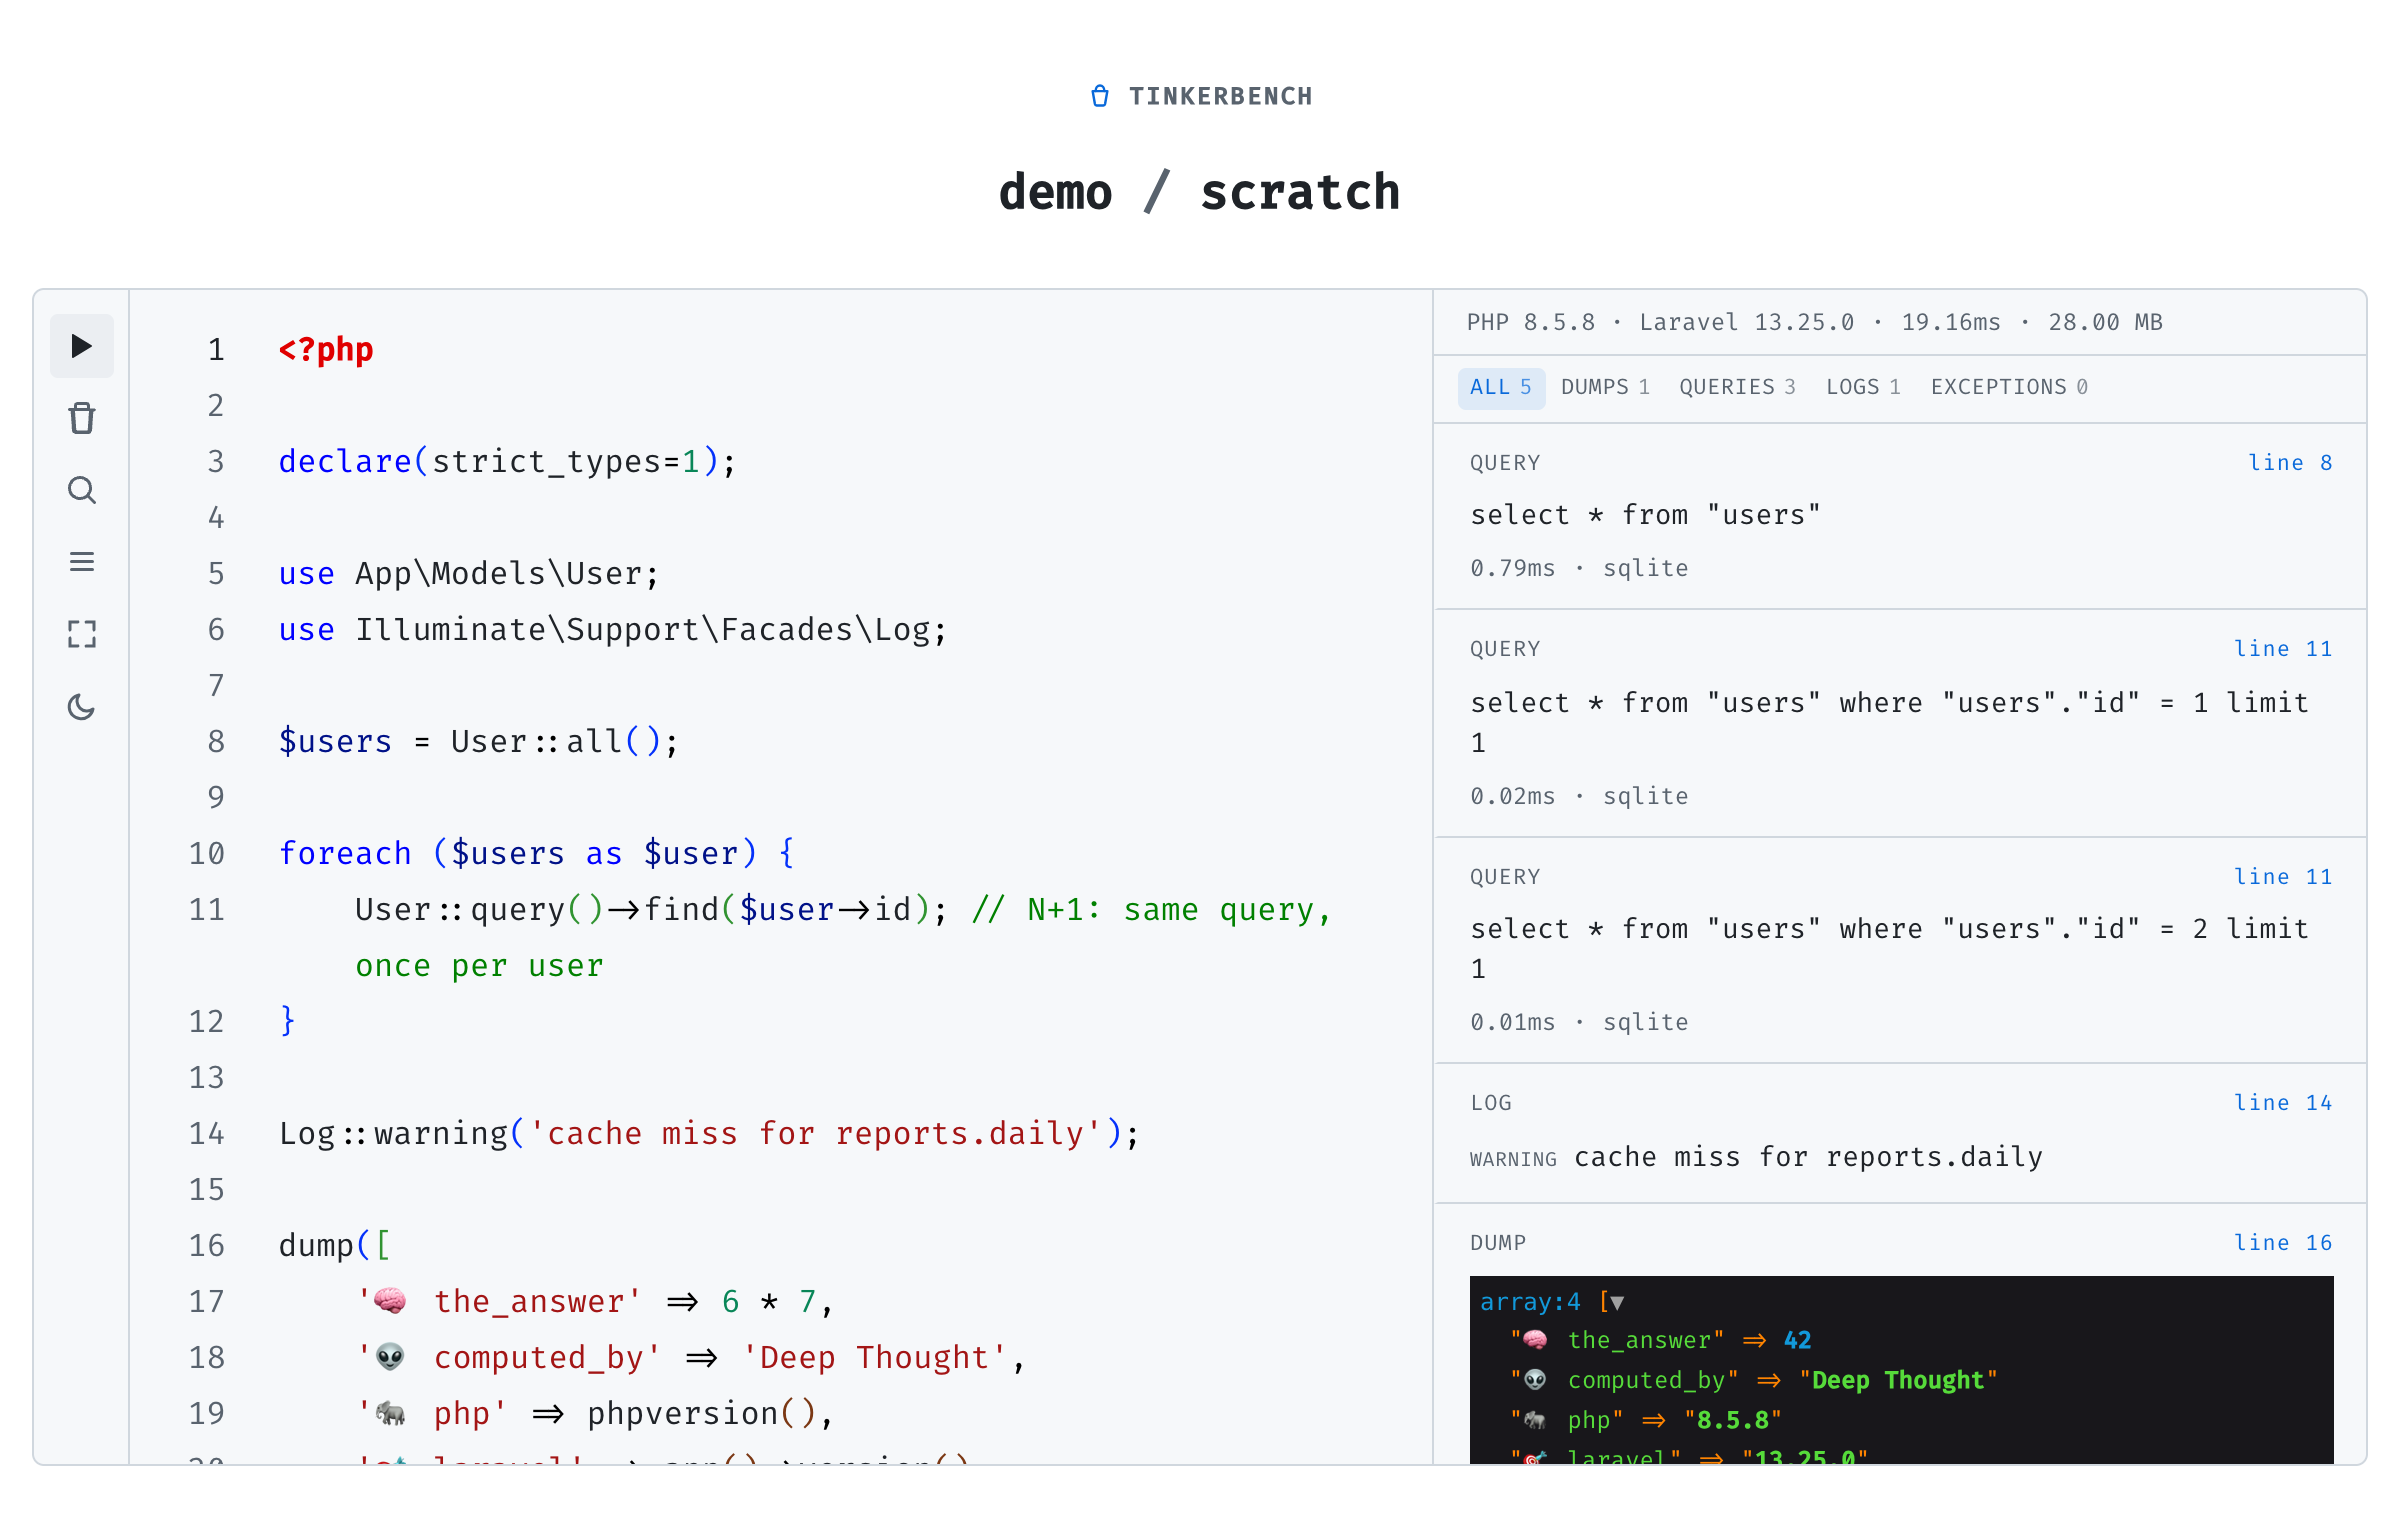
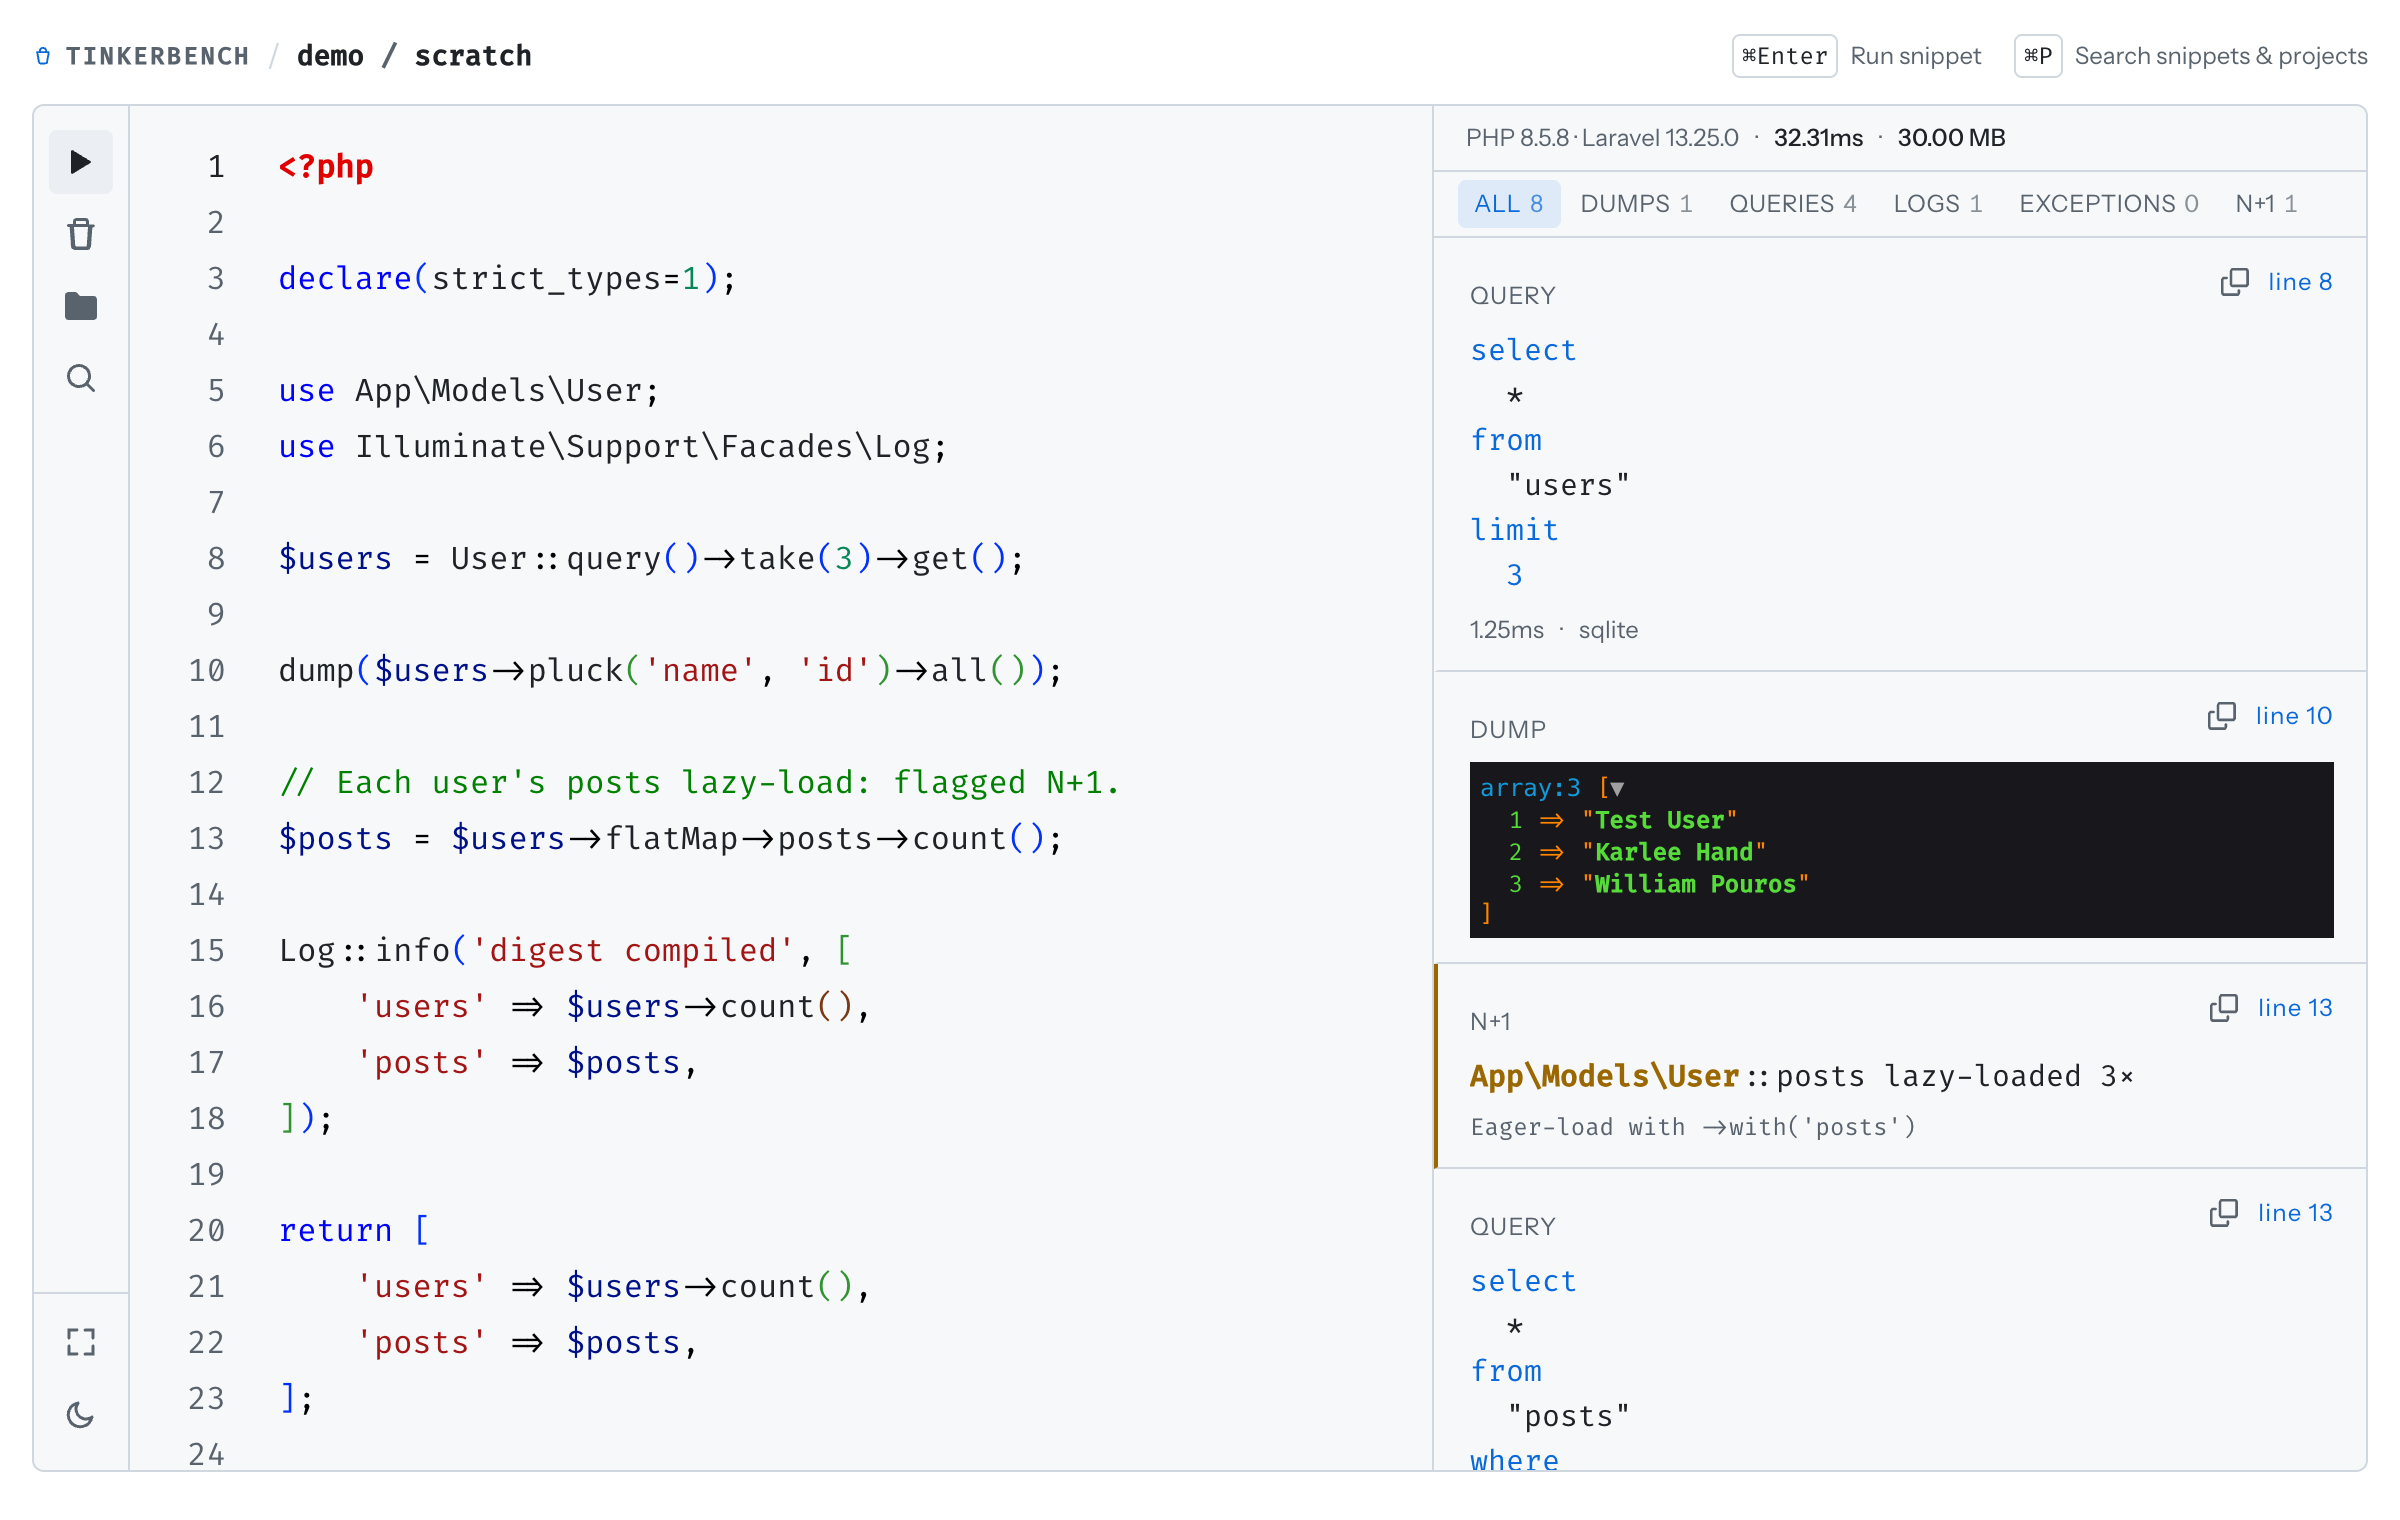
Add images/** rules file documenting how to regenerate the app and social-preview screenshots, and refresh both PNGs

diff --git a/.ai/rules/images.md b/.ai/rules/images.md
@@ -1,0 +1,62 @@
+---
+paths:
+  - 'images/**'
+---
+
+# Images
+
+## How to regenerate images/app.png and images/social-preview.png
+
+Both PNGs are screenshots of the running Herd app (https://tinkerbench.test) on the
+`demo` project's `scratch` snippet (https://tinkerbench.test/demo/scratch).
+
+Drive the browser with the **agent-browser skill** (the project's standing choice for
+browser automation). The chrome-devtools MCP also works if it is already running; the
+steps below are tool-agnostic and only need "navigate", "run JS in the page", "resize"
+and "screenshot to a file".
+
+### `demo/scratch` is a standing exception
+
+You may edit `demo/scratch` at any time to regenerate these screenshots, without asking
+first. It is the screenshot fixture, not developer data. Keep it a sensible showcase of
+the feed (a query, an N+1, a `dump()`, a `Log::*` with context, a return value). Every
+other snippet stays untouchable (see snippets.md).
+
+Order the snippet so the interesting cards land in the viewport: only ~2-3 feed cards
+fit above the fold, and the SQL formatter makes every query card tall, so put the
+`dump()` (and anything else worth showing) before the N+1 loop / bulk queries. Idiomatic
+Laravel only: operate on the Collection you already have (`->sum()`, `->flatMap`), no
+`foreach`. Name things for the model: `$users` / `'users'`, not `$authors`. Use
+`->all()` on a `pluck()` you `dump()` so the VarDumper shows the values, not a collapsed
+`Collection {#…}`.
+
+### Steps
+
+1. Open https://tinkerbench.test/demo/scratch.
+2. Theme: match the committed PNGs = **light**. Toggle with the left-rail
+   "Switch to light/dark theme" button; switch back to dark when done.
+3. Set the snippet. `storage/app/snippets/**` is deny-listed for Edit/Write/Bash and
+   Monaco is not on `window`, so go through the page:
+   - editor instance:
+     `document.querySelector('.h-full.min-w-0.flex-1').__vueParentComponent.setupState.editor`,
+     then `editor.setValue(code)`.
+   - persist: walk parents to the OpenSnippet instance whose
+     `setupState.persistSnippet` exists, then `await persistSnippet(editor.getValue())`.
+   - build indentation with `' '.repeat(n)` in the injected script; literal leading
+     whitespace in an injected function body can be stripped in transit.
+4. Click the "Run snippet" button (not a keyboard chord, see trap below).
+5. Screenshot to the file. Viewport sizes at DPR 2:
+   - `images/app.png` = 1200x760 -> 2400x1520
+   - `images/social-preview.png` = 1280x640 -> 2560x1280
+6. Restore: dark theme, normal window size.
+
+### Traps
+
+- Modifier and function-key chords are swallowed inside Monaco
+  (`suppressEditorShortcuts`): no Cmd+A / Cmd+V / Cmd+Enter in the editor. Use the
+  toolbar buttons.
+- Tool output is rendered as GitHub markdown, which **collapses runs of spaces**, so
+  `cat -A`, `echo` and `json_encode` all make indentation look like a single space.
+  Verify indent numerically instead: `strlen($l) - strlen(ltrim($l, " "))`.
+- Keep snippet lines <= ~48 chars. The editor has `wordWrap: 'on'` and longer lines
+  wrap in the shot.

diff --git a/.ai/rules/snippets.md b/.ai/rules/snippets.md
@@ -31,6 +31,8 @@ isn't specifically about the editor UI.
    one, confirm first, and treat it as the deliverable, not a side effect.
 2. The snippet named `agent-scratch` in any project is the agent sandbox — free to create, edit, run, and
    delete. Nothing else.
+3. `demo/scratch` is the screenshot fixture for `images/**`. You may edit and run it any time to regenerate
+   those PNGs, without asking first. See images.md. This covers only `demo/scratch`.
 
 ## If you mutated one by accident
 

diff --git a/.ai/rules/index.md b/.ai/rules/index.md
@@ -10,6 +10,7 @@ Before planning or editing, find the row whose globs match the file's path and r
 | app/Enums/** | .ai/rules/enums.md |
 | app/Support/SnippetRun/FeedItems/** | .ai/rules/feed-items.md |
 | **/* | .ai/rules/general.md |
+| images/** | .ai/rules/images.md |
 | resources/js/** | .ai/rules/js.md |
 | app/Http/Middleware/** | .ai/rules/middleware.md |
 | app/Models/** | .ai/rules/models.md |
